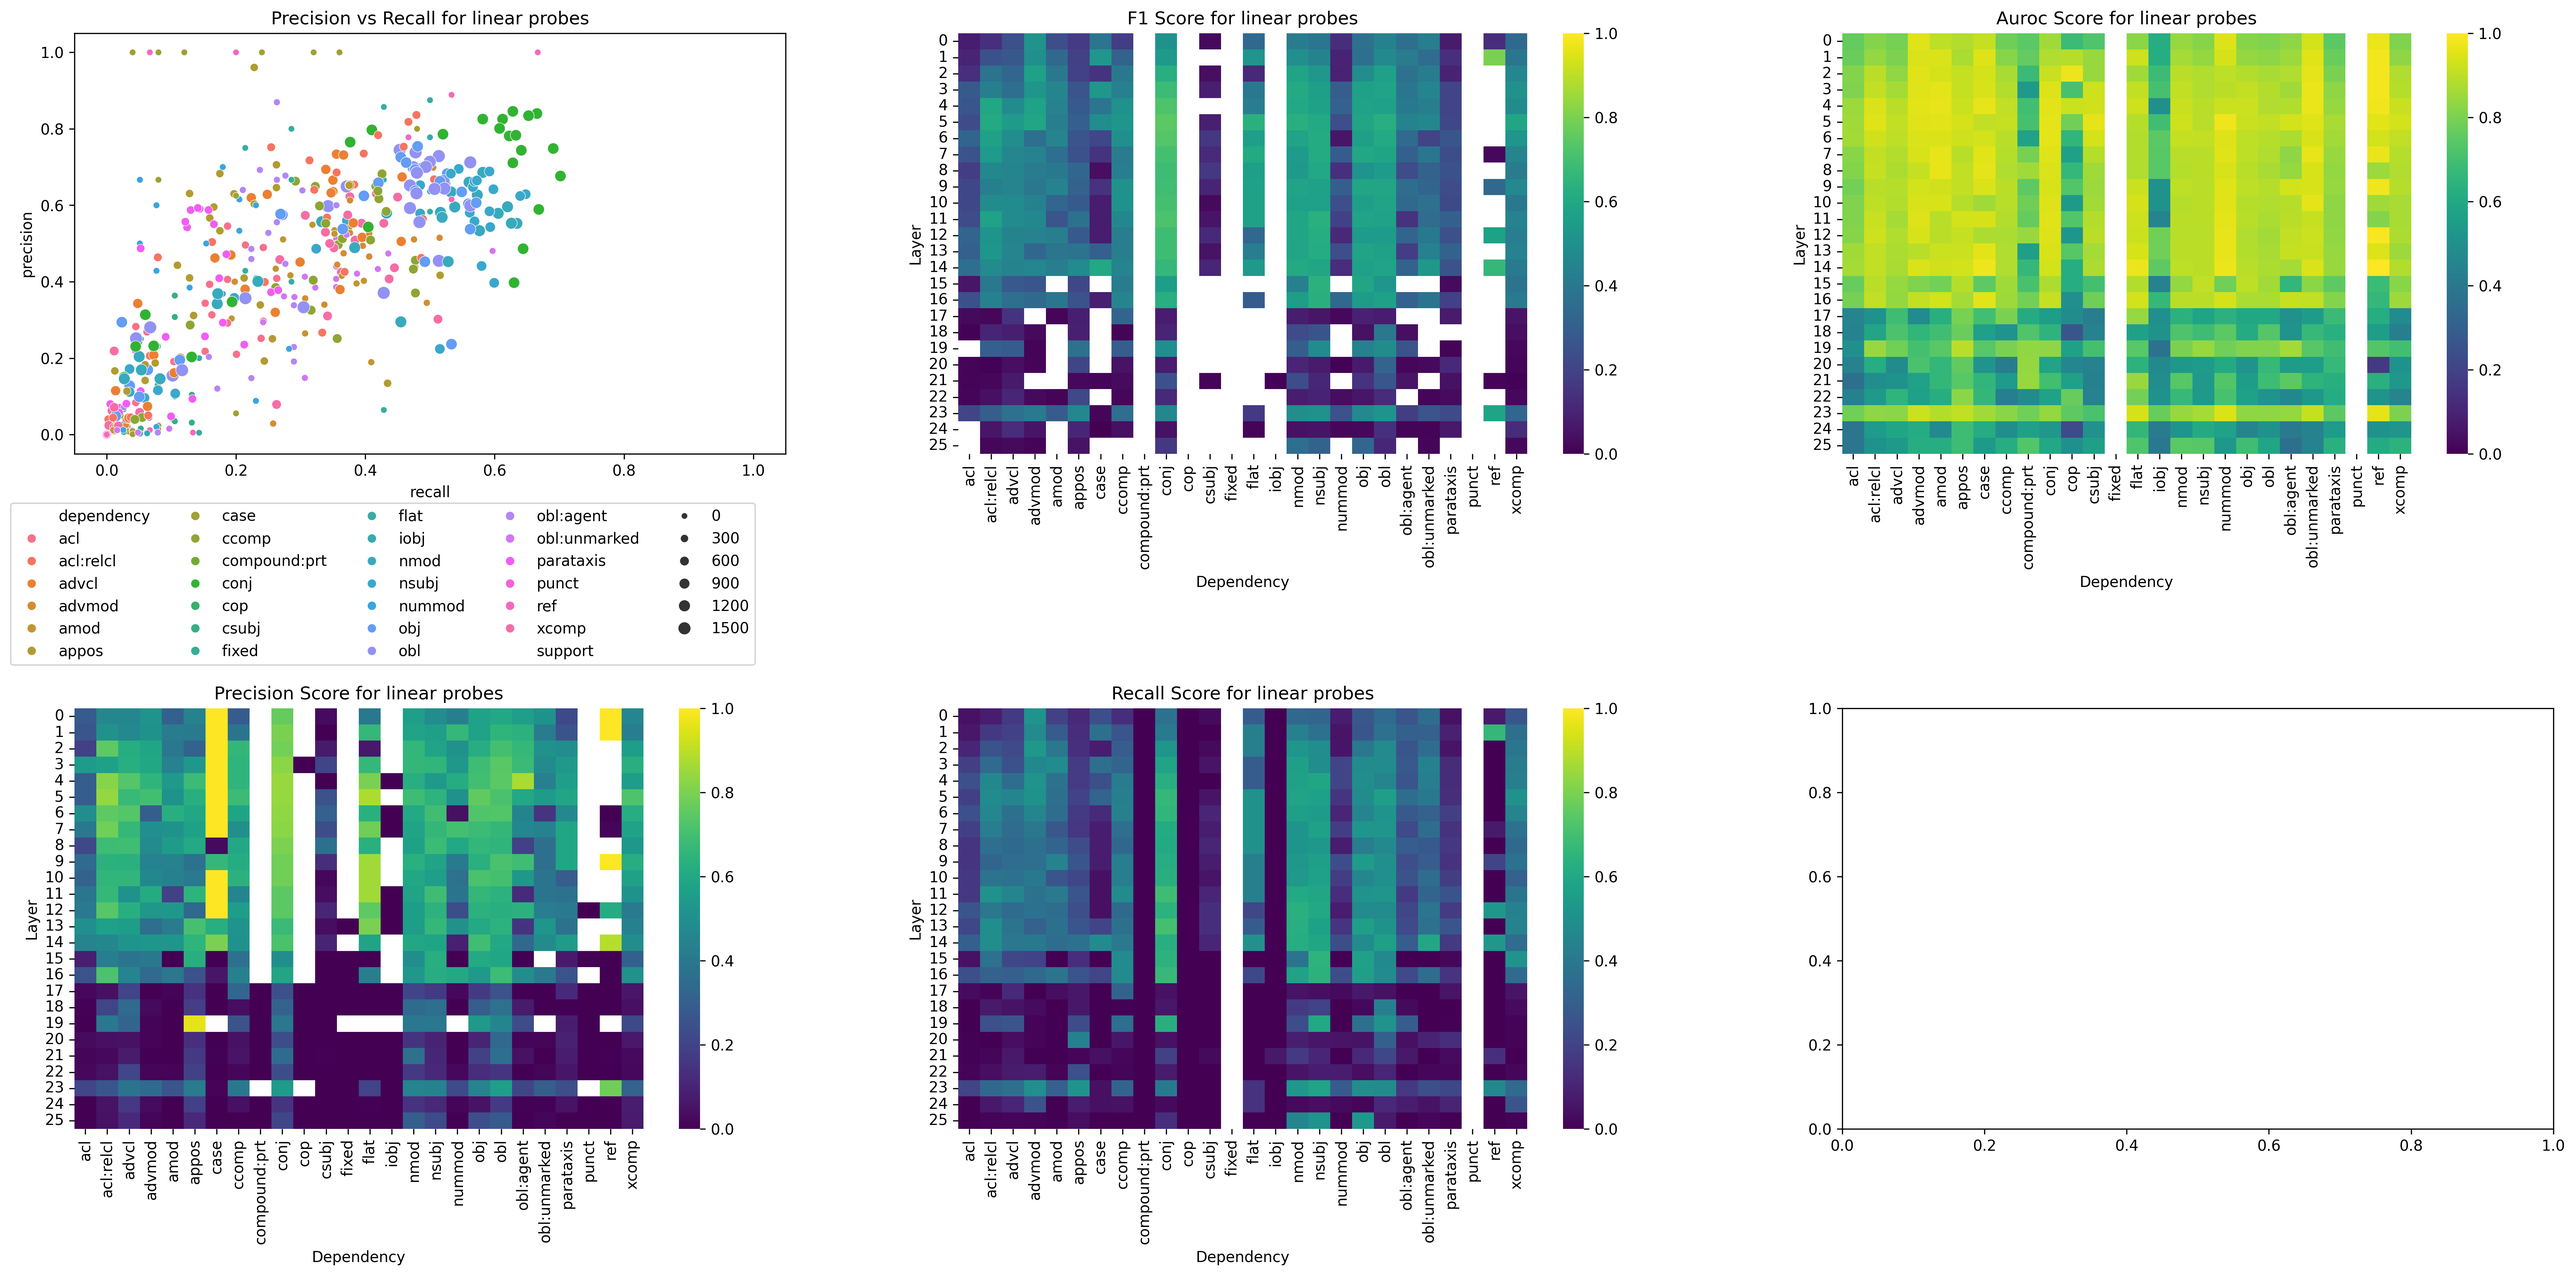
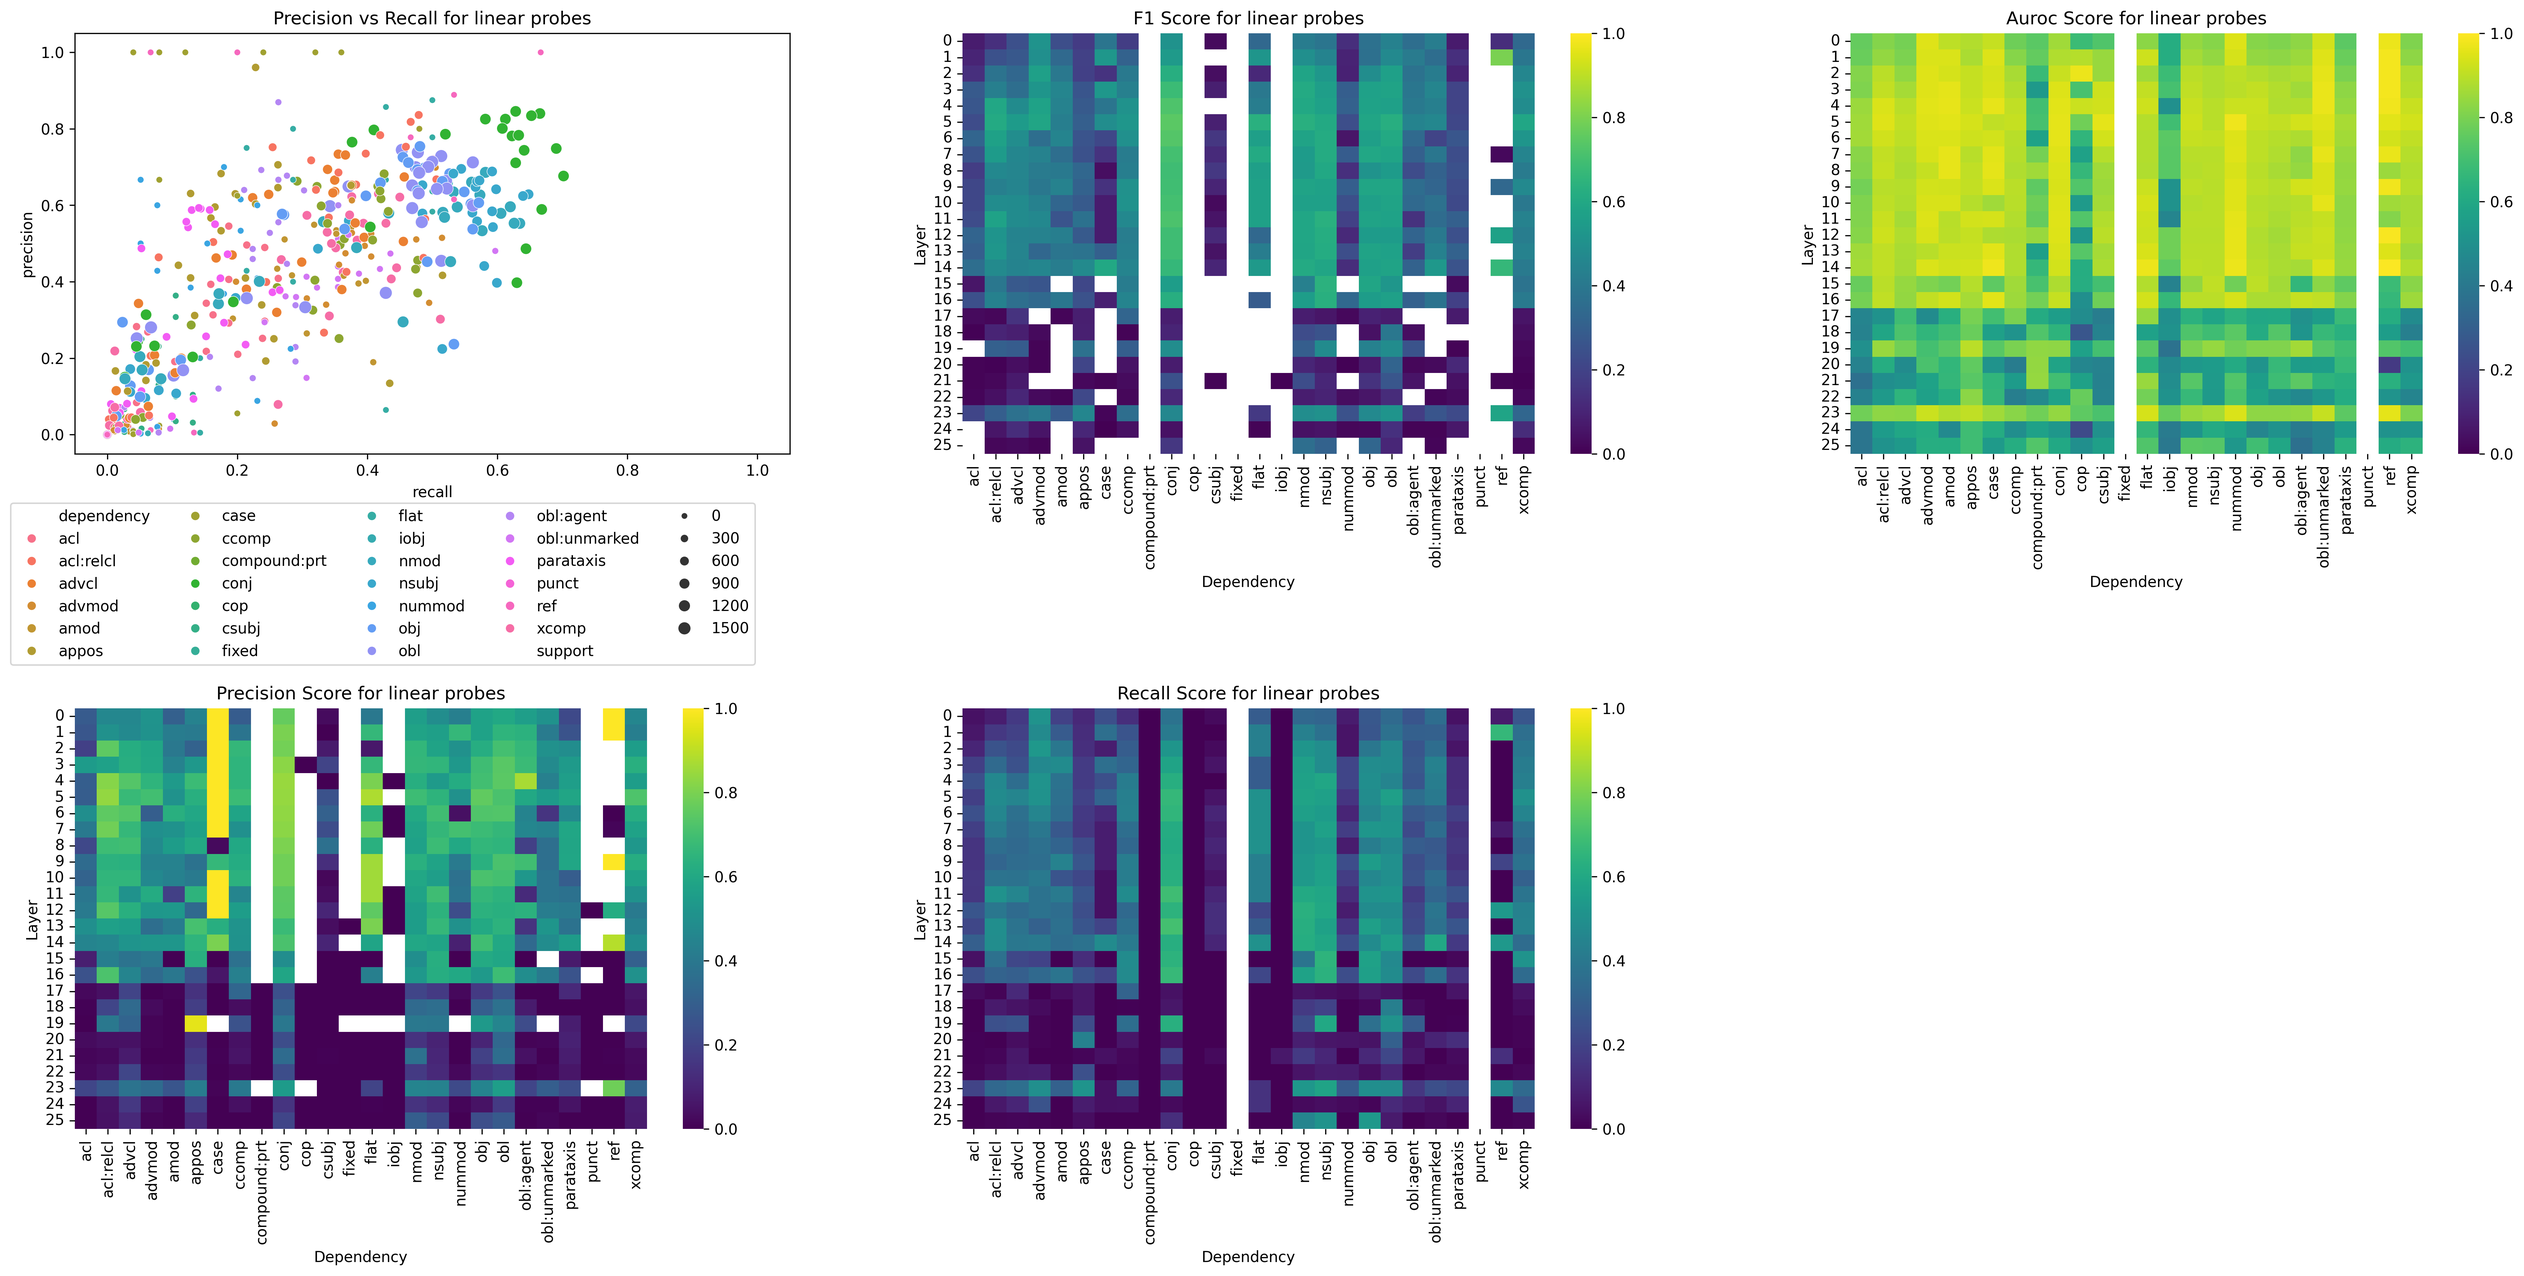
Update main.py with default options

diff --git a/main.py b/main.py
@@ -53,6 +53,7 @@ from evaluate_top_latents import (
     evaluate_latent_predictions,
     get_top_latents_per_dep,
     plot_precision_recall,
+    main as evaluate_top_latents_main
 )
 from evaluate_top_latents import main as evaluate_top_latents_main
 from sae import BatchTopKSAE, GlobalBatchTopKMatryoshkaSAE
@@ -113,11 +114,11 @@ dev_loader = DataLoader(
 
 # %%
 
-probe_type = "multiclass"  # "multiclass" or "binary"
-max_layer = 26  # have only trained binary probes up to this layer for now
+probe_type = "multiclass"
+max_layer = 26
 
 
-train_toks = "concat"
+train_toks = "tail"
 min_occurrences = 20
 deps = DependencyTask.dependency_table()
 dep_counts = DependencyTask.count_dependencies(train_data)
@@ -179,11 +180,11 @@ else:
         del probe
         empty_cache()
 
-        # comment the next line out if you want to overwrite existing probes
-        # if not os.path.exists(model_path):
-        with open(model_path, "wb") as f:
-            print(f"Saving probes to {model_path}")
-            pickle.dump(probes, f)
+    # comment the next line out if you want to overwrite existing probes
+    # if not os.path.exists(model_path):
+    with open(model_path, "wb") as f:
+        print(f"Saving probes to {model_path}")
+        pickle.dump(probes, f)
 
 
 # %%
@@ -363,16 +364,6 @@ for sae_name, sae_width in [("gemma_scope", 16), ("matryoshka", 16)]:
 
 # %%
 # Compute precision, recall and F1 scores for each latent and plot for top latents
-import evaluate_top_latents
-
-importlib.reload(evaluate_top_latents)
-from evaluate_top_latents import (
-    get_top_latents_per_dep,
-    evaluate_latent_predictions,
-    plot_precision_recall,
-    evaluate_all_latents,
-    main as evaluate_top_latents_main
-)
 
 which_class_names = ["acts"]
 return_class = False
@@ -394,7 +385,6 @@ for sae_name, sae_vals in sae_comp.items():
         #     pickle.dump(stats, f)
 
     else:
-    # if True:
         acts_results, stats = evaluate_top_latents_main(
             ud_model=ud_model,
             train_loader=train_loader,
@@ -464,7 +454,7 @@ plt.savefig(f"figures/sae/f1_diff_matryoshka_gemma_scope_{model_name}.png", bbox
 plt.show()
 
 # %%
-# plot as a bar chart layer 12
+# plot F1 for linear, GemmaScope, and Matryoshka as a bar chart layer 12
 plot_layer = 12
 
 eval_df = pd.DataFrame({k: v for k, v in probe_results[plot_layer].items() if k not in ["probs", "accuracy"]})
@@ -492,8 +482,7 @@ plt.show()
 
 # %%
 # Compare F1 scores for linear probes vs. SAEs
-# with open(f"data/evals/{probe_type}_eval_{train_toks}_results_layers_{min(probes.keys())}-{max(probes.keys())}_ndeps_{len(frequent_deps)}.pkl", "rb") as f:
-#     eval_results = pickle.load(f)
+
 mats, tail_results, concat_results, diff_results = {}, {}, {}, {}
 
 for d, name in zip([tail_results, concat_results], ["tail", "concat"]):
@@ -526,74 +515,75 @@ for which_class_name in ["acts"]:  # "class",
     # plt.show()
 
 # %%
+# plot the difference in F1 between concat and tail probes
 sns.heatmap(mats["concat"] - mats["tail"], cmap="RdBu_r", norm=norm, xticklabels=list(frequent_deps.keys()), yticklabels=np.arange(max_layer))
 plt.title(f"Linear Probes: Concat F1 $-$ Tail F1")
 plt.savefig(f"figures/sae/f1_diff_concat_probe.png", bbox_inches="tight")
 plt.show()
 
 
-# %%
+# # %%
 
-with open(os.path.expanduser("~/.config/keys.save")) as f:
-    # formatted as "OPENAI_API_KEY=...", but with multiple KEYS in the file
-    api_keys = {k: v for k, v in (line.replace('"', '').split("=") for line in f.read().strip().split("\n") if not line.startswith("#"))}
+# with open(os.path.expanduser("~/.config/keys.save")) as f:
+#     # formatted as "OPENAI_API_KEY=...", but with multiple KEYS in the file
+#     api_keys = {k: v for k, v in (line.replace('"', '').split("=") for line in f.read().strip().split("\n") if not line.startswith("#"))}
 
-# select only those latents where both precision and recall are > some threshold
-# precision_threshold = 0.4
-# recall_threshold = 0.4
-# f1_threshold = 0.2
+# # select only those latents where both precision and recall are > some threshold
+# # precision_threshold = 0.4
+# # recall_threshold = 0.4
+# # f1_threshold = 0.2
 
-for sae_name, sae_vals in sae_comp.items():
+# for sae_name, sae_vals in sae_comp.items():
 
-    # sae_vals["thresh_df"] = sae_vals["act_results"][np.logical_and(sae_vals["act_results"]["precision"] > precision_threshold, sae_vals["act_results"]["recall"] > recall_threshold)]
+#     # sae_vals["thresh_df"] = sae_vals["act_results"][np.logical_and(sae_vals["act_results"]["precision"] > precision_threshold, sae_vals["act_results"]["recall"] > recall_threshold)]
 
-    # print(sae_vals["thresh_df"].groupby("dependency").size())
+#     # print(sae_vals["thresh_df"].groupby("dependency").size())
 
-    # sae_vals["thresh_df"] = sae_vals["act_results"][sae_vals["act_results"]["f1"] > f1_threshold]
-    # print(sae_vals["thresh_df"].groupby("dependency").size())
+#     # sae_vals["thresh_df"] = sae_vals["act_results"][sae_vals["act_results"]["f1"] > f1_threshold]
+#     # print(sae_vals["thresh_df"].groupby("dependency").size())
 
-    idxmax = sae_vals["stats"]["acts"]["f1"]["max"].groupby("dependency")["f1"].idxmax()
-    max_df = sae_vals["stats"]["acts"]["f1"]["max"].loc[idxmax]
+#     idxmax = sae_vals["stats"]["acts"]["f1"]["max"].groupby("dependency")["f1"].idxmax()
+#     max_df = sae_vals["stats"]["acts"]["f1"]["max"].loc[idxmax]
 
-    # max_df = max_df[max_df["f1"] > f1_threshold].reset_index(drop=True)
-    print(max_df)
+#     # max_df = max_df[max_df["f1"] > f1_threshold].reset_index(drop=True)
+#     print(max_df)
 
-    # ulayers = np.unique(max_df["layer"])
+#     # ulayers = np.unique(max_df["layer"])
 
-    # for layer in ulayers:
-    #     print(layer)
+#     # for layer in ulayers:
+#     #     print(layer)
 
-    #     # look up the autointerp label for this layer
-    #     with open(f"data/neuronpedia/layer_{layer}.json", "r") as f:
-    #         neuronpedia_labels = json.load(f)
+#     #     # look up the autointerp label for this layer
+#     #     with open(f"data/neuronpedia/layer_{layer}.json", "r") as f:
+#     #         neuronpedia_labels = json.load(f)
 
-    #     selected_saes = [("gemma-scope-2b-pt-res-canonical", f"layer_{layer}/width_16k/canonical")]
-    #     torch.set_grad_enabled(False)
+#     #     selected_saes = [("gemma-scope-2b-pt-res-canonical", f"layer_{layer}/width_16k/canonical")]
+#     #     torch.set_grad_enabled(False)
 
-    #     cfg = AutoInterpEvalConfig(model_name="gemma-2-2b", device=device_sae, n_latents=None, override_latents=list(max_df[max_df["layer"] == layer]["latent"]), llm_dtype="bfloat16", llm_batch_size=32)
-    #     save_logs_path = os.path.join('data', 'logs', f"logs_layer_{layer}.txt")
-    #     output_path = os.path.join('data', 'sae_bench')
-    #     os.makedirs(os.path.dirname(save_logs_path), exist_ok=True)
-    #     os.makedirs(output_path, exist_ok=True)
-    #     results = run_eval(
-    #         cfg, selected_saes, str(device_sae), api_keys["OPENAI_API_KEY"], output_path=output_path,save_logs_path=save_logs_path
-    #     )
+#     #     cfg = AutoInterpEvalConfig(model_name="gemma-2-2b", device=device_sae, n_latents=None, override_latents=list(max_df[max_df["layer"] == layer]["latent"]), llm_dtype="bfloat16", llm_batch_size=32)
+#     #     save_logs_path = os.path.join('data', 'logs', f"logs_layer_{layer}.txt")
+#     #     output_path = os.path.join('data', 'sae_bench')
+#     #     os.makedirs(os.path.dirname(save_logs_path), exist_ok=True)
+#     #     os.makedirs(output_path, exist_ok=True)
+#     #     results = run_eval(
+#     #         cfg, selected_saes, str(device_sae), api_keys["OPENAI_API_KEY"], output_path=output_path,save_logs_path=save_logs_path
+#     #     )
 
 
-    #     for row in max_df[max_df["layer"] == layer].itertuples():
-    #         print(row.dependency, row.layer, row.latent)
+#     #     for row in max_df[max_df["layer"] == layer].itertuples():
+#     #         print(row.dependency, row.layer, row.latent)
 
-    #         # display_dashboard(
-    #         #     sae_release="gemma-scope-2b-pt-res-canonical",
-    #         #     sae_id=f"layer_{row.layer}/width_16k/canonical",
-    #         #     latent_idx=row.latent,
-    #         #     width=800,
-    #         #     height=600
-    #         # )
+#     #         # display_dashboard(
+#     #         #     sae_release="gemma-scope-2b-pt-res-canonical",
+#     #         #     sae_id=f"layer_{row.layer}/width_16k/canonical",
+#     #         #     latent_idx=row.latent,
+#     #         #     width=800,
+#     #         #     height=600
+#     #         # )
 
-    #         neuronpedia_explanation = [x['explanation'] for x in neuronpedia_labels if int(x['index']) == row.latent]
-    #         print(neuronpedia_explanation)
-    #     break
+#     #         neuronpedia_explanation = [x['explanation'] for x in neuronpedia_labels if int(x['index']) == row.latent]
+#     #         print(neuronpedia_explanation)
+#     #     break
 
 
 # %%
